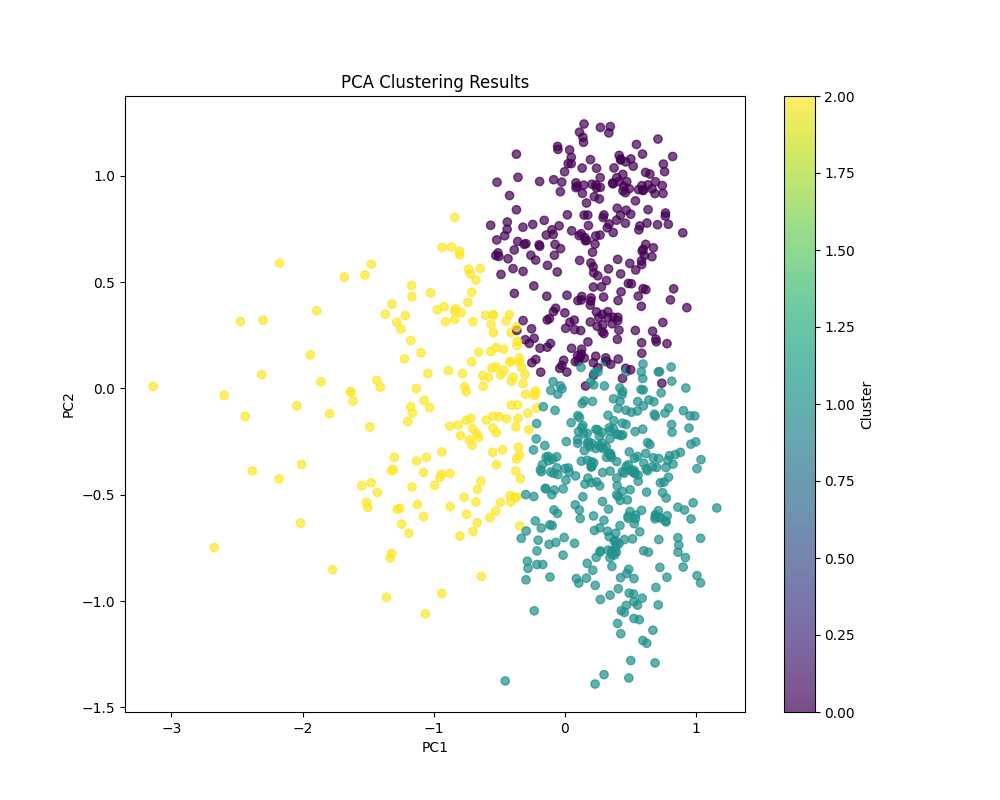
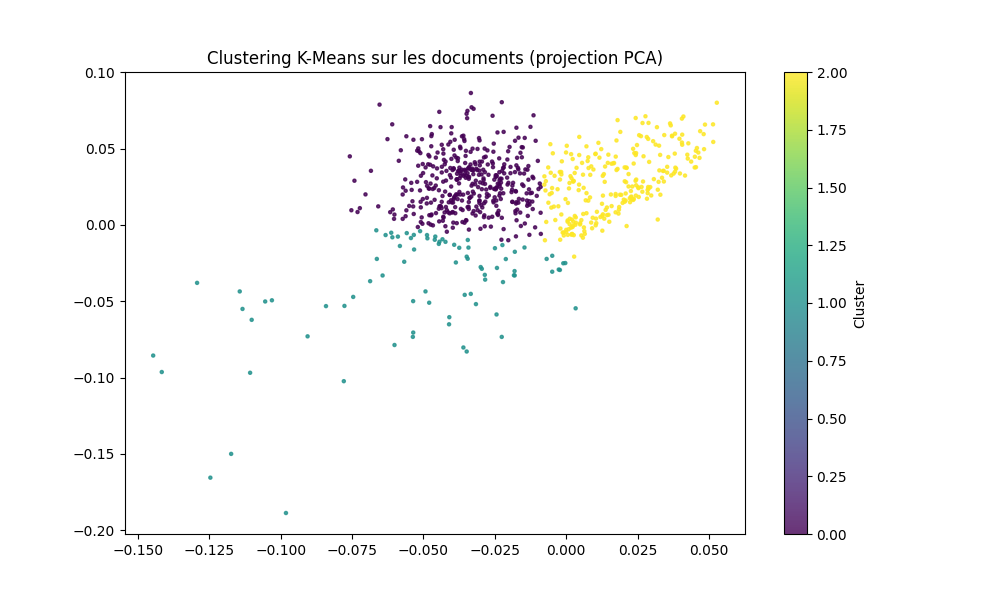
resultats

diff --git a/etude_question2/clustering.py b/etude_question2/clustering.py
@@ -19,7 +19,7 @@ corpus = df_top[col_name].astype(str).tolist()
 # Charger les composantes PCA depuis analyse_pca.py (vecteurs propres)
 from scipy import sparse
 df_matrix = pd.read_sql("SELECT * FROM similarity_matrix", engine)
-M = sparse.csr_matrix((df_matrix['value'], (df_matrix['row'], df_matrix['col'])), shape=(500, 500))
+M = sparse.csr_matrix((df_matrix['value'], (df_matrix['row'], df_matrix['col'])), shape=(750, 750))
 from scipy.sparse.linalg import eigsh
 vals, vecs = eigsh(M, k=2, which='LM')
 x = vecs[:, 0]
@@ -54,17 +54,47 @@ def kmeans_custom(X, k, random_state=42):
     return clusters, centroids
 
 # Clustering K-Means on PCA data (supposons k=5 clusters, ajustable)
-k = 5
+k = 3
 clusters, centroids = kmeans_custom(X_pca, k, random_state=42)
+
+# Analyser les caractéristiques des clusters
+df_top['cluster'] = clusters
+
+# Fonction pour parser l'âge
+def parse_age(age_str):
+    if age_str is None or age_str == '':
+        return None
+    import re
+    match = re.search(r'\d+', str(age_str))
+    return int(match.group()) if match else None
+
+df_top['age_parsed'] = df_top['age'].apply(parse_age)
 
 # Visualisation avec couleurs par cluster
 plt.figure(figsize=(10, 6))
 scatter = plt.scatter(x, y, c=clusters, cmap='viridis', s=5, alpha=0.8)
 plt.title("Clustering K-Means sur les documents (projection PCA)")
 plt.colorbar(scatter, label='Cluster')
+
+# Ajouter les moyennes d'âge sur les centroids
+for cluster_id in range(k):
+    cluster_data = df_top[df_top['cluster'] == cluster_id]
+    avg_age = cluster_data['age_parsed'].mean()
+    centroid_x, centroid_y = centroids[cluster_id]
+    plt.text(centroid_x, centroid_y, f'{avg_age:.1f}', fontsize=12, ha='center', va='center', 
+             bbox=dict(boxstyle='round,pad=0.3', facecolor='white', alpha=0.8))
+
 plt.show()
 
 # Sauvegarde des clusters dans la base de données
 df_clusters = pd.DataFrame({'cluster': clusters})
 df_clusters.to_sql('clusters', engine, if_exists='replace', index=False)
 print("Clusters sauvegardés dans la base de données.")
+
+# Statistiques par cluster
+color_names = ['yellow', 'blue', 'green']
+for cluster_id in range(k):
+    cluster_data = df_top[df_top['cluster'] == cluster_id]
+    avg_age = cluster_data['age_parsed'].mean()
+    color = color_names[cluster_id]
+    print(f"Cluster {cluster_id}: Moyenne âge = {avg_age:.2f}, Couleur = {color}")

diff --git a/etude_question2/analyse_pca.py b/etude_question2/analyse_pca.py
@@ -12,7 +12,7 @@ engine = create_engine(f'sqlite:///{db_path}')
 
 # Charger la matrice de similarité depuis la base de données
 df_matrix = pd.read_sql("SELECT * FROM similarity_matrix", engine)
-M = sparse.csr_matrix((df_matrix['value'], (df_matrix['row'], df_matrix['col'])), shape=(500, 500))
+M = sparse.csr_matrix((df_matrix['value'], (df_matrix['row'], df_matrix['col'])), shape=(750, 750))
 print(M.shape)
 print(f"{M.nnz} valeurs non nulles")
 
@@ -29,8 +29,8 @@ x = vecs[:, 0]
 y = vecs[:, 1]
 
 plt.figure(figsize=(10, 6))
-plt.scatter(x, y, s=5, alpha=0.8)
-plt.title("Cartographie basée sur la matrice de similarité des 500 plus longs documents")
+plt.scatter(x, y, s=5, alpha=0.9)
+plt.title("Cartographie basée sur la matrice de similarité des 750 plus longs documents")
 
 plt.show()
 
